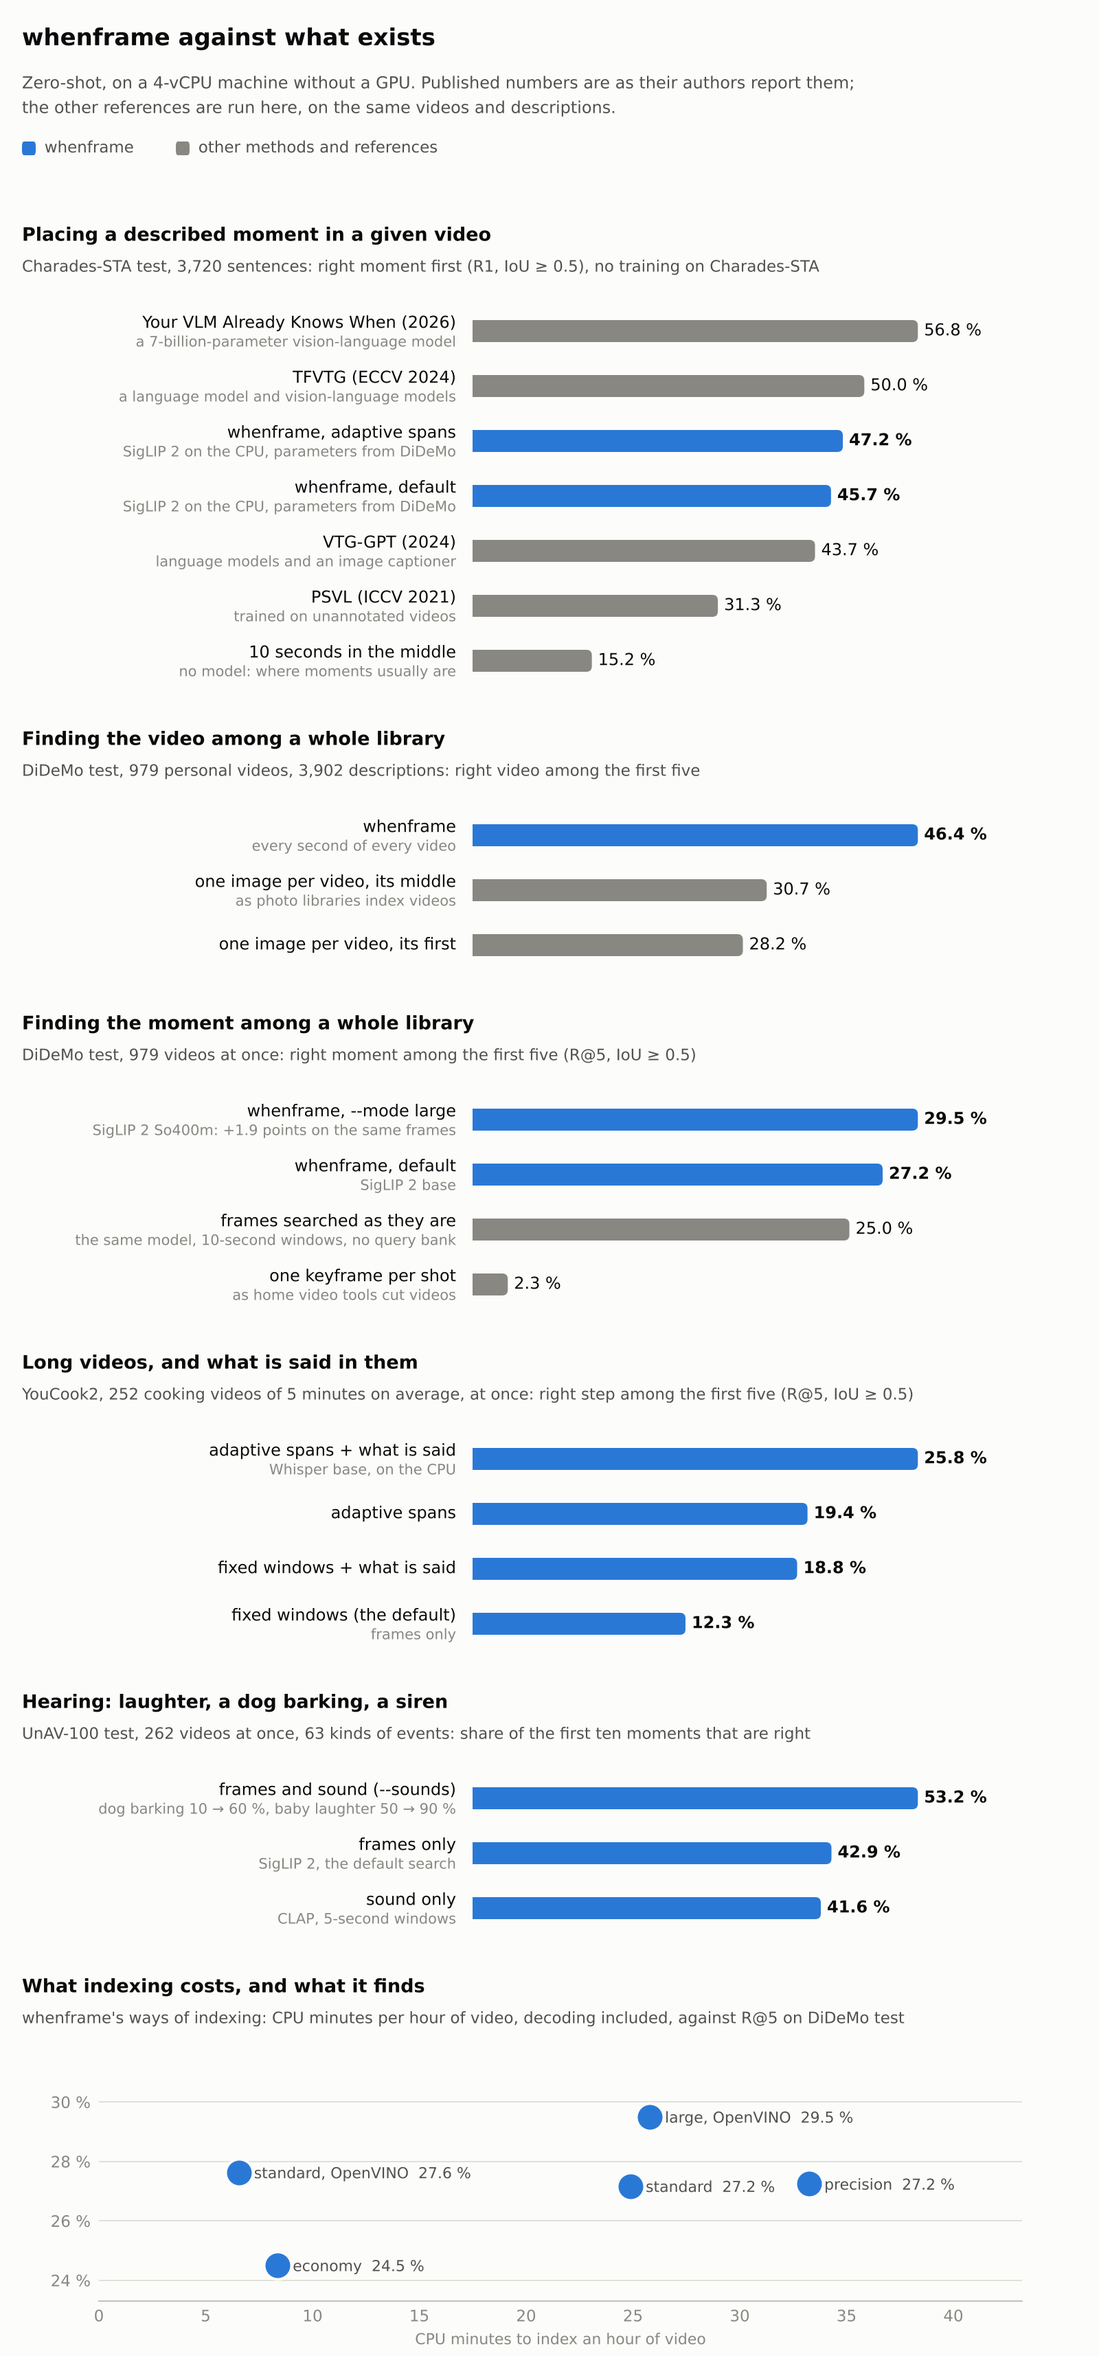
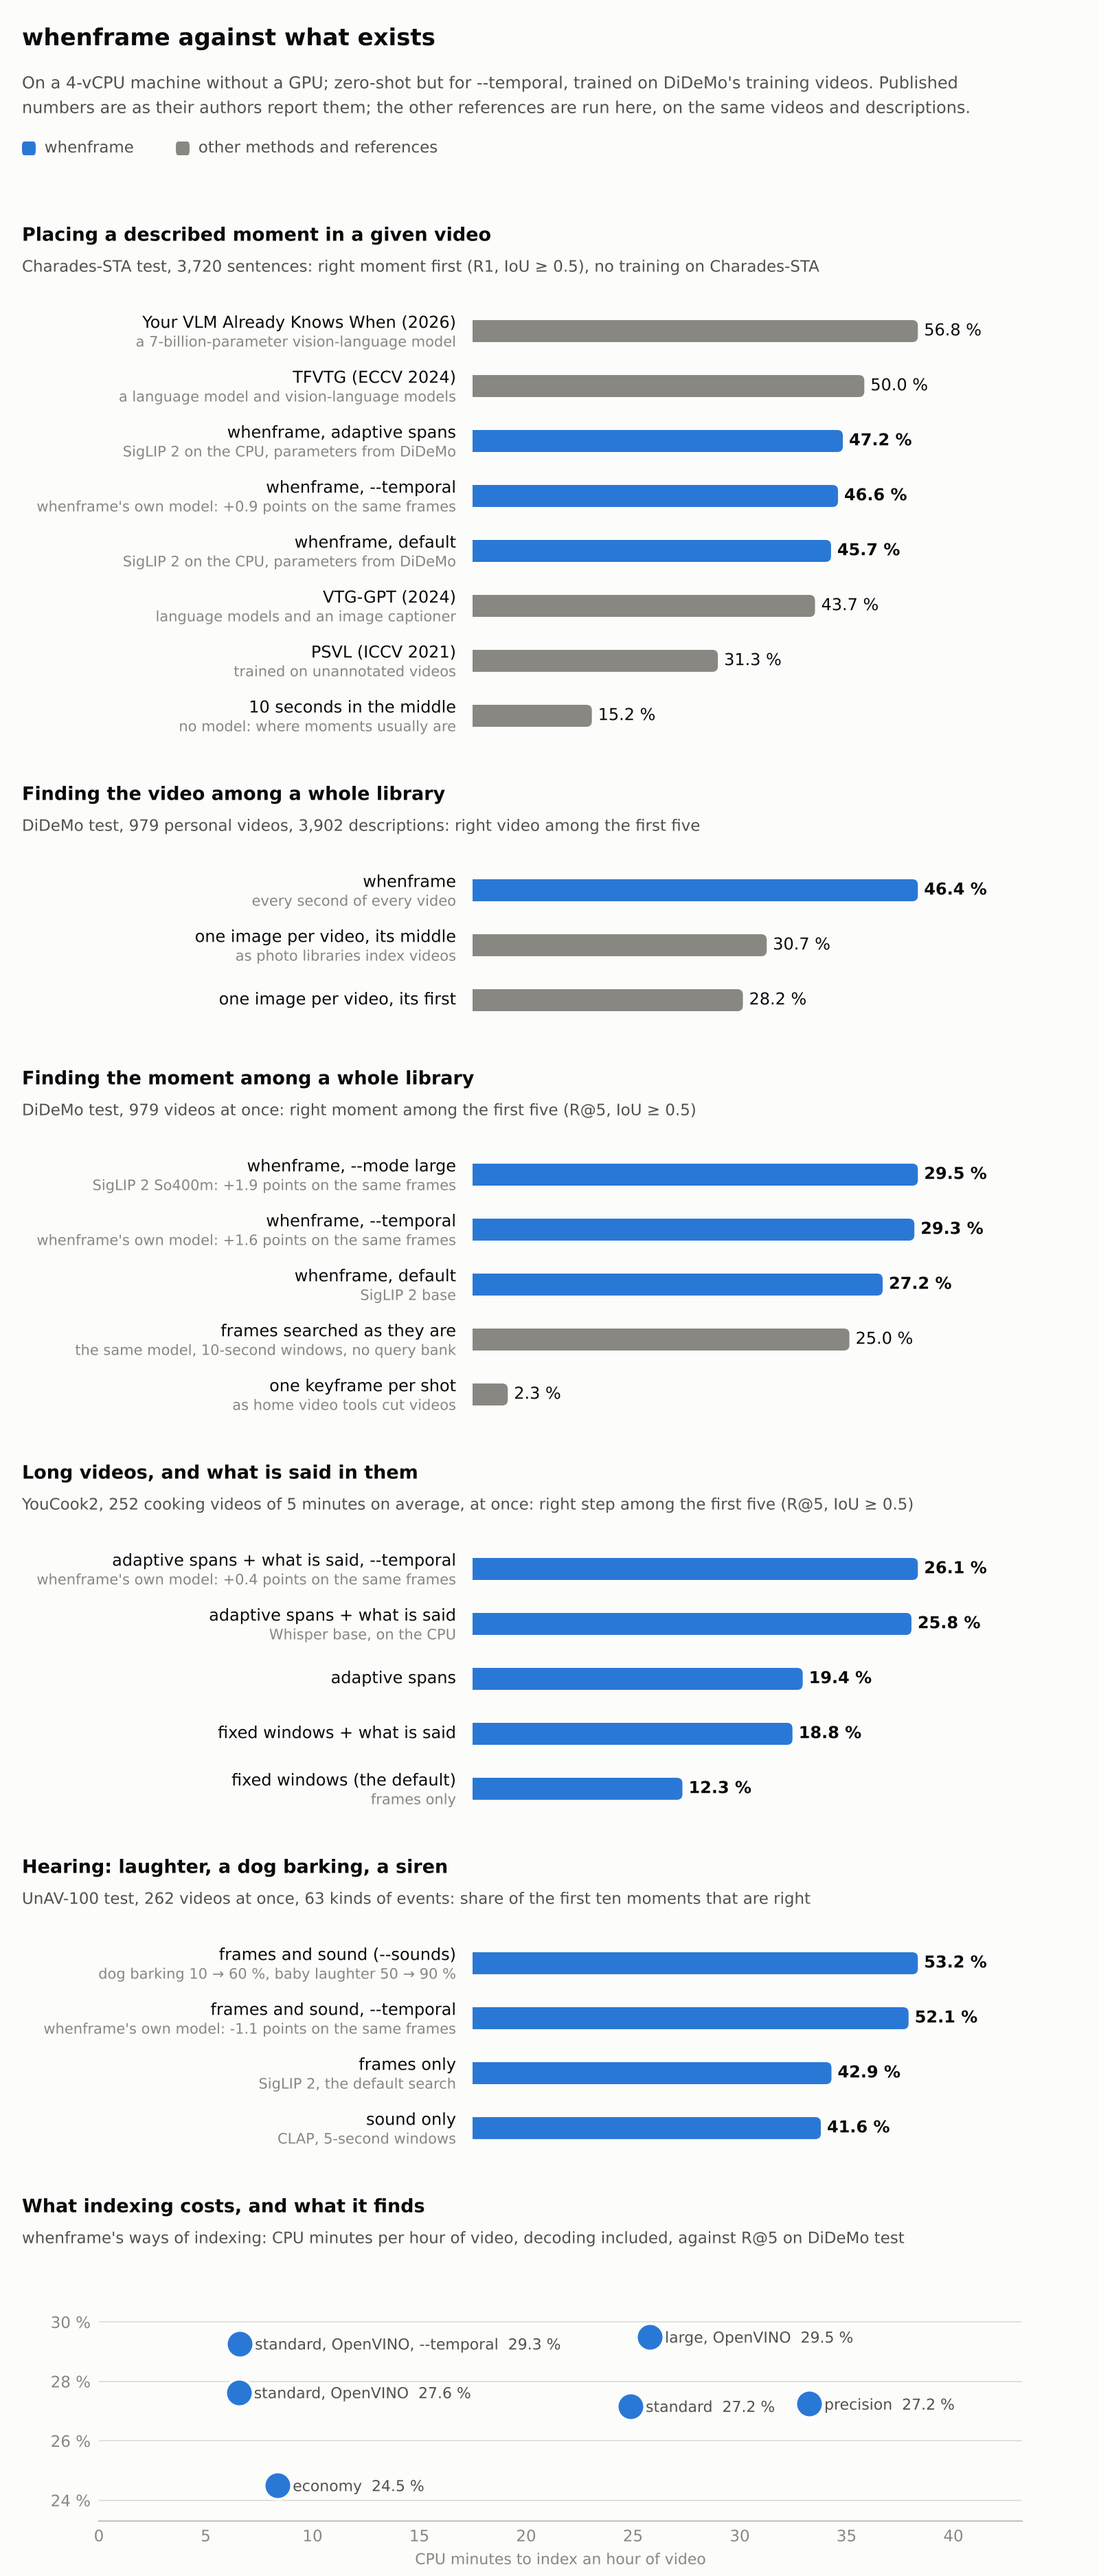
Benchmark figure: whenframe's own model in every panel, and its cost
On DiDeMo, the standard mode with OpenVINO and --temporal finds 29.3 % of
the moments for 6.6 CPU minutes per hour of video, against 29.5 % for 25.8
minutes in large mode. Zero-shot, but for --temporal.

diff --git a/scripts/benchmark_figure.py b/scripts/benchmark_figure.py
@@ -41,9 +41,18 @@ def load(name: str) -> dict | None:
 def panels() -> list[dict]:
     """Each panel: a title, a subtitle, and rows (label, note, value in %, is whenframe)."""
     out = []
+    model = load("temporal_test.json")  # the fifth round: whenframe's own model, --temporal
+
+    def own(gain: float) -> str:
+        return f"whenframe's own model: {gain:+.1f} points on the same frames"
+
     ch = load("charades_test.json")
     if ch:
         rows = [(name, note, value, False) for name, note, value in PUBLISHED]
+        if model:
+            m = model["charades"]
+            gain = 100 * (m["adapter"]["single"]["R1 IoU>=0.5"] - m["without"]["single"]["R1 IoU>=0.5"])
+            rows.append(("whenframe, --temporal", own(gain), 100 * m["adapter"]["single"]["R1 IoU>=0.5"], True))
         rows += [("whenframe, adaptive spans", "SigLIP 2 on the CPU, parameters from DiDeMo",
                   100 * ch["whenframe_bank"]["single"]["R1 IoU>=0.5"], True),
                  ("whenframe, default", "SigLIP 2 on the CPU, parameters from DiDeMo",
@@ -73,6 +82,10 @@ def panels() -> list[dict]:
             gain = 100 * (big["siglip2-so400m"]["corpus"][PRIMARY] - big["base"]["corpus"][PRIMARY])
             rows.append(("whenframe, --mode large", f"SigLIP 2 So400m: {gain:+.1f} points on the same frames",
                          100 * big["siglip2-so400m"]["corpus"][PRIMARY], True))  # fmt: skip
+        if model:
+            m = model["didemo"]
+            gain = 100 * (m["adapter"]["corpus"][PRIMARY] - m["without"]["corpus"][PRIMARY])
+            rows.append(("whenframe, --temporal", own(gain), 100 * m["adapter"]["corpus"][PRIMARY], True))
         rows += [("whenframe, default", "SigLIP 2 base", 100 * d[d["default"]]["corpus"][PRIMARY], True),
                  ("frames searched as they are", "the same model, 10-second windows, no query bank",
                   100 * d["frame_window"]["corpus"][PRIMARY], False),
@@ -85,7 +98,13 @@ def panels() -> list[dict]:
     yc, yc4 = load("youcook2_test.json"), load("youcook2_test_round4.json")
     if yc and yc4:
         spans_speech = 100 * yc4["speech_spans"]["corpus"][PRIMARY]
-        rows = [("adaptive spans + what is said", "Whisper base, on the CPU", spans_speech, True),
+        rows = []
+        if model:
+            m = model["youcook2"]
+            mine = 100 * m["adapter_speech_spans"]["corpus"][PRIMARY]
+            gain = mine - 100 * m["without_speech_spans"]["corpus"][PRIMARY]
+            rows.append(("adaptive spans + what is said, --temporal", own(gain), mine, True))
+        rows += [("adaptive spans + what is said", "Whisper base, on the CPU", spans_speech, True),
                 ("adaptive spans", "", 100 * yc4["whenframe_bank"]["corpus"][PRIMARY], True),
                 ("fixed windows + what is said", "", 100 * yc["speech_bank"]["corpus"][PRIMARY], True),
                 ("fixed windows (the default)", "frames only", 100 * yc["frame_window_bank"]["corpus"][PRIMARY],
@@ -101,6 +120,18 @@ def panels() -> list[dict]:
         examples = ", ".join(f"{k} {100 * a:.0f} → {100 * b:.0f} %" for k, (a, b) in per.items())
         rows = [
             ("frames and sound (--sounds)", examples, 100 * un["both"]["p_at_k"], True),
+            *(
+                [
+                    (
+                        "frames and sound, --temporal",
+                        own(100 * (model["unav"]["adapter_both"]["p_at_k"] - model["unav"]["without_both"]["p_at_k"])),
+                        100 * model["unav"]["adapter_both"]["p_at_k"],
+                        True,
+                    )
+                ]
+                if model
+                else []
+            ),
             ("frames only", "SigLIP 2, the default search", 100 * un["frames"]["p_at_k"], True),
             ("sound only", f"CLAP, {un['length']:g}-second windows", 100 * un["sound"]["p_at_k"], True),
         ]
@@ -132,6 +163,12 @@ def cost_points() -> list[tuple[str, float, float]]:
     if big:
         pts.append(("large, OpenVINO", sum(big["cost"]["cpu_min_per_hour"].values()),
                     100 * big["siglip2-so400m"]["corpus"][PRIMARY]))  # fmt: skip
+    model = load("temporal_test.json")
+    if ov and model:  # the same frames as the standard mode's, through whenframe's own model
+        m = model["didemo"]
+        pts.append(("standard, OpenVINO, --temporal",
+                    sum(ov["openvino"]["cpu_min_per_hour"].values()) + m["adapter_cost"]["cpu_min_per_hour"],
+                    100 * m["adapter"]["corpus"][PRIMARY]))  # fmt: skip
     return pts
 
 
@@ -145,8 +182,9 @@ def draw(theme: str):
     y = total - 0.2
     fig.text(0.02, y / total, "whenframe against what exists", color=t["ink"], fontsize=17 * PX, fontweight="bold",
              va="top")  # fmt: skip
-    fig.text(0.02, (y - 0.32) / total, "Zero-shot, on a 4-vCPU machine without a GPU. Published numbers are as their "
-             "authors report them;\nthe other references are run here, on the same videos and descriptions.",
+    fig.text(0.02, (y - 0.32) / total, "On a 4-vCPU machine without a GPU; zero-shot but for --temporal, trained on "
+             "DiDeMo's training videos. Published\nnumbers are as their authors report them; the other references are "
+             "run here, on the same videos and descriptions.",
              color=t["ink2"], fontsize=12 * PX, va="top", linespacing=1.5)  # fmt: skip
     key = 10 * PX / 72  # inches
     for x, color, name in ((0.02, t["s1"], "whenframe"), (0.16, t["muted"], "other methods and references")):

diff --git a/README.md b/README.md
@@ -112,7 +112,7 @@ logging every outbound connection of an indexing and search run). More in
 <p align="center">
   <picture>
     <source media="(prefers-color-scheme: dark)" srcset="https://raw.githubusercontent.com/qthullie/whenframe/main/docs/figures/benchmark-dark.png">
-    <img src="https://raw.githubusercontent.com/qthullie/whenframe/main/docs/figures/benchmark.png" alt="whenframe against what exists: on Charades-STA it places 45.7 to 47.2 % of the moments, between VTG-GPT (43.7 %) and TFVTG (50.0 %) and below a 7-billion-parameter vision-language model (56.8 %); on DiDeMo it finds the right video among the first five 46.4 % of the time against 28 to 31 % for one image per video, and the right moment 27.2 % against 2.3 % for one keyframe per shot; on YouCook2, adaptive spans and speech raise 12.3 % to 25.8 %; on UnAV-100, adding the sound raises 42.9 % to 53.2 %" width="800">
+    <img src="https://raw.githubusercontent.com/qthullie/whenframe/main/docs/figures/benchmark.png" alt="whenframe against what exists: on Charades-STA it places 45.7 to 47.2 % of the moments, between VTG-GPT (43.7 %) and TFVTG (50.0 %) and below a 7-billion-parameter vision-language model (56.8 %); on DiDeMo it finds the right video among the first five 46.4 % of the time against 28 to 31 % for one image per video, and the right moment 27.2 % against 2.3 % for one keyframe per shot; on YouCook2, adaptive spans and speech raise 12.3 % to 25.8 %; on UnAV-100, adding the sound raises 42.9 % to 53.2 %; whenframe's own model (--temporal) adds 1.6 points on DiDeMo at almost no cost, 0.9 on Charades-STA and 0.4 on YouCook2, and loses 1.1 on UnAV-100" width="800">
   </picture>
 </p>
 
